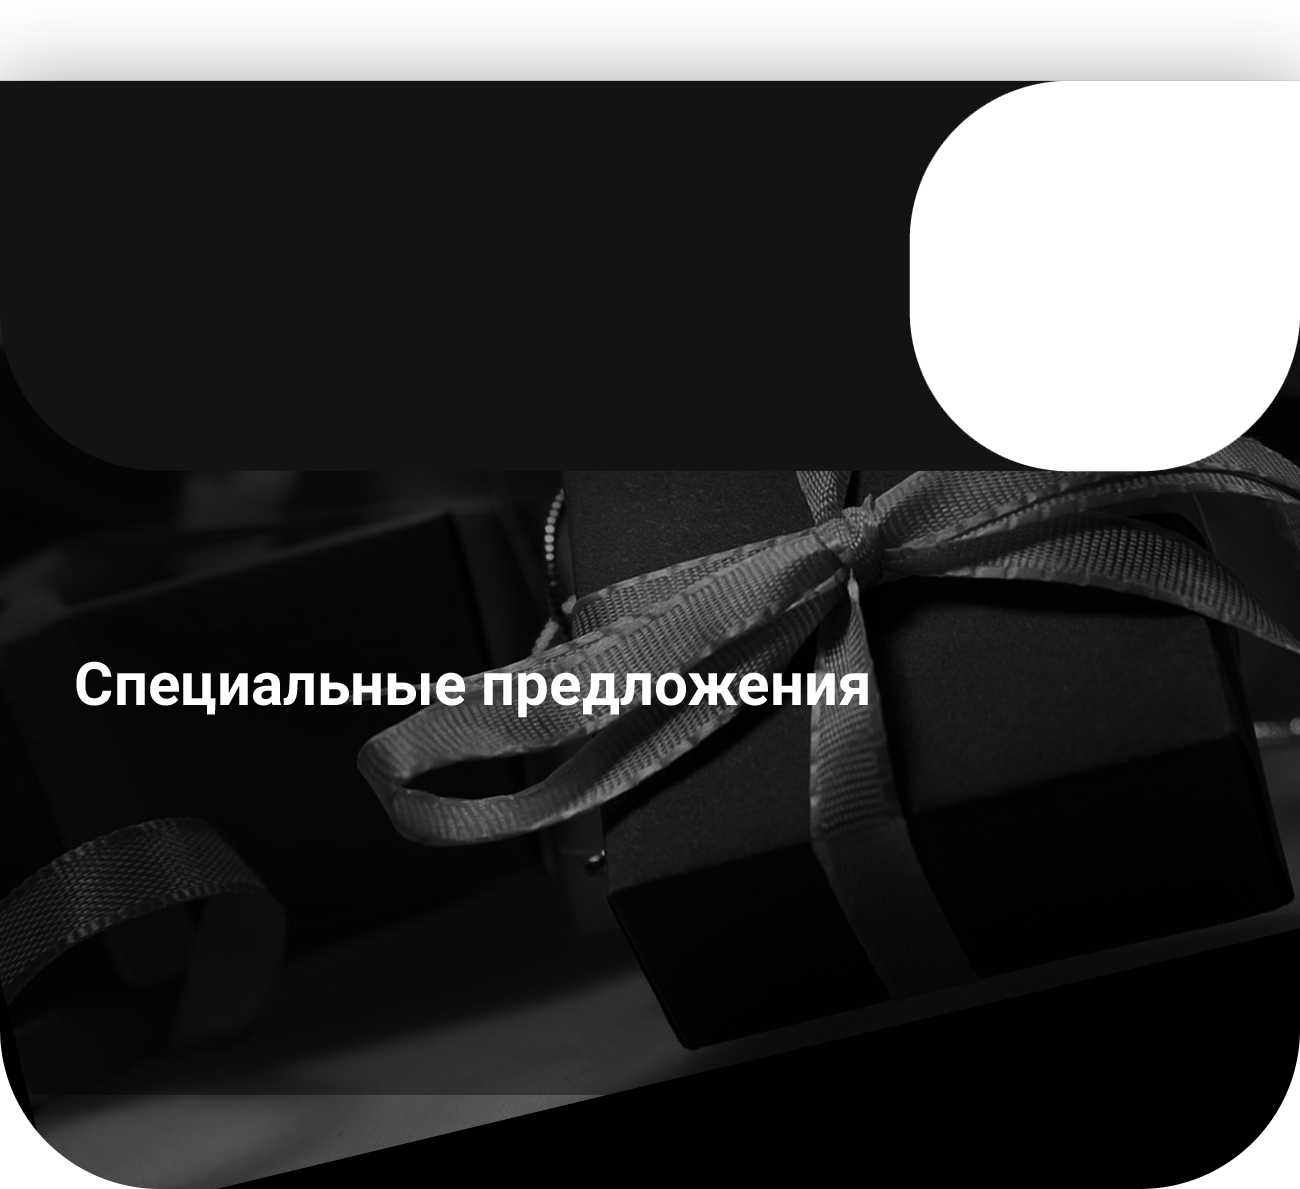
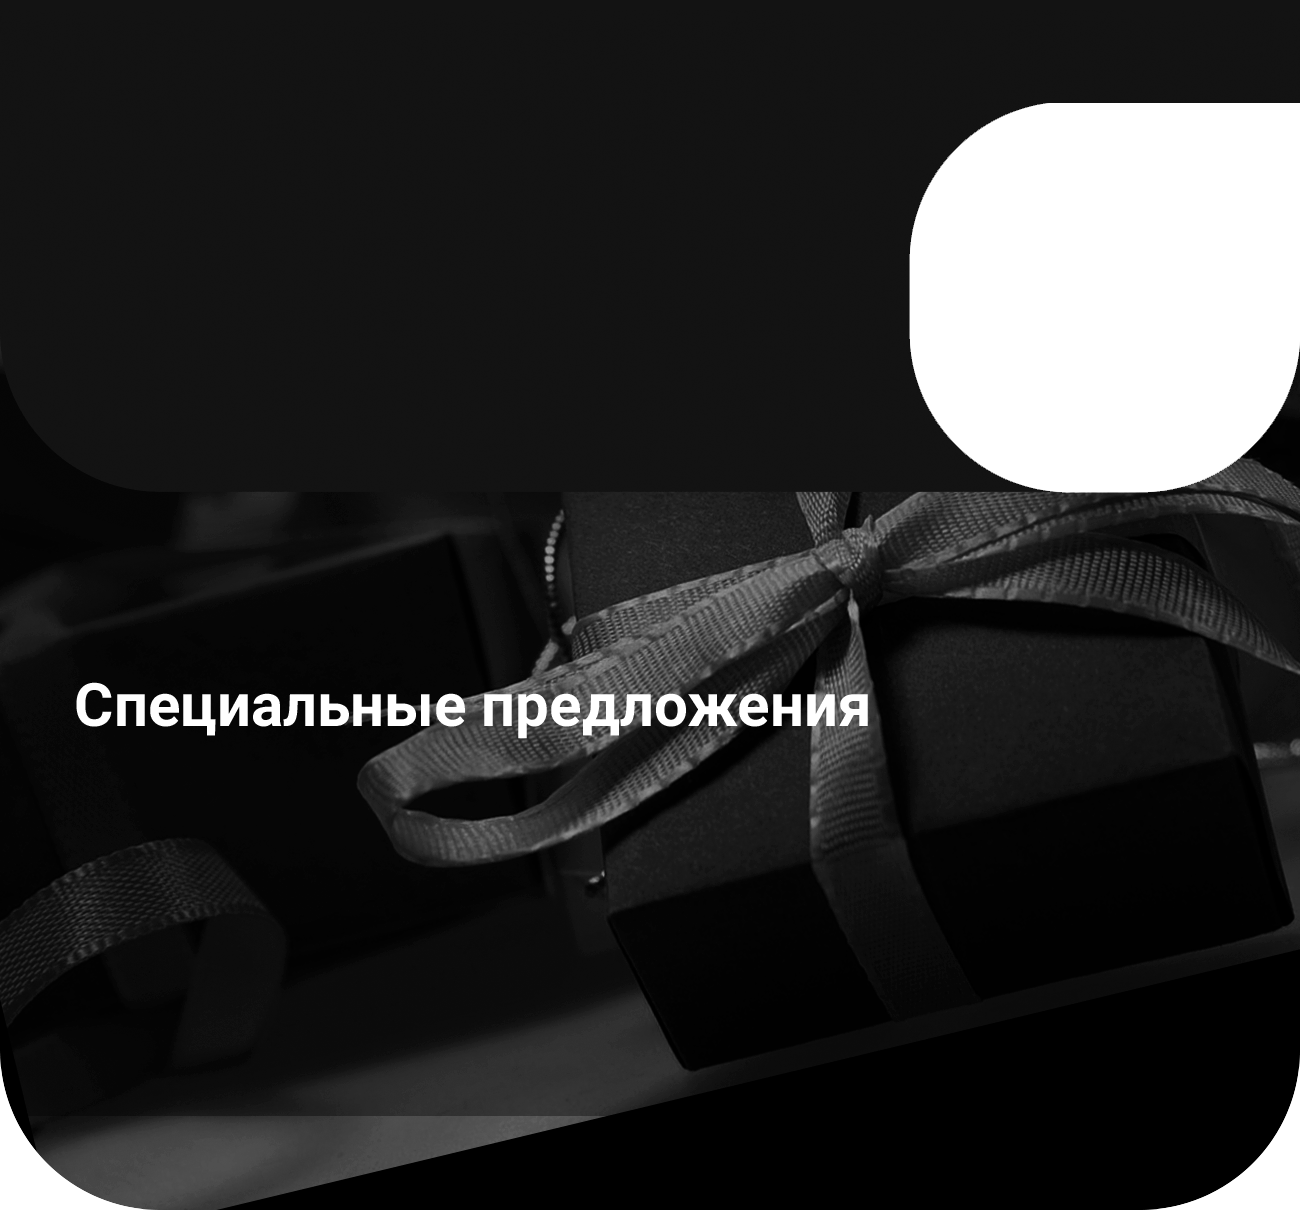
Изменения цвета StatusBar для iOS, добавлены иконки приборов при передачи показаний, перерисовка шапок на формах

diff --git a/xamarinJKH/Counters/AddMetersPage.xaml b/xamarinJKH/Counters/AddMetersPage.xaml
@@ -118,6 +118,8 @@
                                  HorizontalOptions="CenterAndExpand">
                         <StackLayout Orientation="Horizontal"
                                      HorizontalOptions="CenterAndExpand">
+                            <Image x:Name="img"
+                                WidthRequest="25"/>
                             <Label x:Name="NameLbl"
                                 Text="Лицевой счет: "
                                 HeightRequest="20"

diff --git a/xamarinJKH/News/NewsPage.xaml b/xamarinJKH/News/NewsPage.xaml
@@ -8,7 +8,7 @@
     <ContentPage.Content>
          <StackLayout>
             <RelativeLayout 
-                Margin="0,0,0,-180"
+                Margin="0,0,0,-150"
                 HorizontalOptions="FillAndExpand">
                 <!-- <Image x:Name="ImageTop" -->
                 <!--        Source="ic_top_event" -->

diff --git a/xamarinJKH/Notifications/NotificationsPage.xaml b/xamarinJKH/Notifications/NotificationsPage.xaml
@@ -9,7 +9,7 @@
     <ContentPage.Content>
         <StackLayout>
             <RelativeLayout 
-                Margin="0,0,0,-180"
+                Margin="0,0,0,-150"
                 HorizontalOptions="FillAndExpand">
                 <!-- <Image x:Name="ImageTop" -->
                 <!--        Source="ic_top_event" -->

diff --git a/xamarinJKH/Counters/AddMetersPage.xaml.cs b/xamarinJKH/Counters/AddMetersPage.xaml.cs
@@ -31,7 +31,8 @@ namespace xamarinJKH.Counters
             switch (Device.RuntimePlatform)
             {
                 case Device.iOS:
-                    ImageFon.Margin = new Thickness(0, 7, 0, 0);
+                    BackgroundColor = Color.White;
+                    ImageFon.Margin = new Thickness(0, 0, 0, 0);
                     StackLayout.Margin = new Thickness(0, 33, 0, 0);
                     IconViewNameUk.Margin = new Thickness(0, 33, 0, 0);
                     break;
@@ -58,6 +59,17 @@ namespace xamarinJKH.Counters
         
         void SetTextAndColor()
         {
+            if (meter.Resource.ToLower().Contains("холодное"))
+            {
+                img.Source = ImageSource.FromFile("ic_cold_water");
+            }else if (meter.Resource.ToLower().Contains("горячее"))
+            {
+                img.Source = ImageSource.FromFile("ic_heat_water");
+            }
+            else
+            {
+                img.Source = ImageSource.FromFile("ic_electr");
+            }
             UkName.Text = Settings.MobileSettings.main_name;
             LabelPhone.Text = "+" + Settings.Person.Phone;
             NameLbl.Text = meter.Resource;

diff --git a/xamarinJKH.Android/Resources/Resource.designer.cs b/xamarinJKH.Android/Resources/Resource.designer.cs
@@ -1,11 +1,11 @@
 #pragma warning disable 1591
 //------------------------------------------------------------------------------
 // <auto-generated>
-//     Этот код создан программой.
-//     Исполняемая версия:4.0.30319.42000
+//     This code was generated by a tool.
+//     Runtime Version:4.0.30319.42000
 //
-//     Изменения в этом файле могут привести к неправильной работе и будут потеряны в случае
-//     повторной генерации кода.
+//     Changes to this file may cause incorrect behavior and will be lost if
+//     the code is regenerated.
 // </auto-generated>
 //------------------------------------------------------------------------------
 

diff --git a/xamarinJKH/RegistrForm.xaml.cs b/xamarinJKH/RegistrForm.xaml.cs
@@ -37,7 +37,16 @@ namespace xamarinJKH
             var backClick = new TapGestureRecognizer();
             backClick.Tapped += async (s, e) => { _ = await Navigation.PopModalAsync(); };
             BackStackLayout.GestureRecognizers.Add(backClick);
-
+            switch (Device.RuntimePlatform)
+            {
+                case Device.iOS:
+                    BackgroundColor = Color.White;
+                    BackStackLayout.Margin = new Thickness(10, -150, 0, 0);
+                    break;
+                case Device.Android:
+                default:
+                    break;
+            }
             var nextReg = new TapGestureRecognizer();
             nextReg.Tapped += async (s, e) => { FirstStepReg(); };
             FrameBtnLogin.GestureRecognizers.Add(nextReg);

diff --git a/xamarinJKH/Apps/AppPage.xaml.cs b/xamarinJKH/Apps/AppPage.xaml.cs
@@ -96,8 +96,8 @@ namespace xamarinJKH.Apps
             switch (Device.RuntimePlatform)
             {
                 case Device.iOS:
-                    ImageTop.Margin = new Thickness(0, 33, 0, 0);
-                    StackLayout.Margin = new Thickness(0, 33, 0, 0);
+                    // ImageTop.Margin = new Thickness(0, 33, 0, 0);
+                    // StackLayout.Margin = new Thickness(0, 33, 0, 0);
                     // IconViewNameUk.Margin = new Thickness(0, 33, 0, 0);
                     break;
                 case Device.Android:

diff --git a/xamarinJKH/News/NewPage.xaml.cs b/xamarinJKH/News/NewPage.xaml.cs
@@ -29,7 +29,9 @@ namespace xamarinJKH.News
             switch (Device.RuntimePlatform)
             {
                 case Device.iOS:
-                    ImageTop.Margin = new Thickness(0, 7, 0, 0);
+                    BackgroundColor = Color.White;
+                    BackgroundColor = Color.White;
+                    ImageTop.Margin = new Thickness(0, 0, 0, 0);
                     StackLayout.Margin = new Thickness(0, 33, 0, 0);
                     IconViewNameUk.Margin = new Thickness(0, 33, 0, 0);
                     break;

diff --git a/xamarinJKH/News/NewsPage.xaml.cs b/xamarinJKH/News/NewsPage.xaml.cs
@@ -64,7 +64,9 @@ namespace xamarinJKH.News
             switch (Device.RuntimePlatform)
             {
                 case Device.iOS:
-                    ImageTop.Margin = new Thickness(0, 7, 0, 0);
+                    BackgroundColor = Color.White;
+                    BackgroundColor = Color.White;
+                    ImageTop.Margin = new Thickness(0, 0, 0, 0);
                     StackLayout.Margin = new Thickness(0, 33, 0, 0);
                     IconViewNameUk.Margin = new Thickness(0, 33, 0, 0);
                     break;

diff --git a/xamarinJKH/Notifications/NotificationOnePage.xaml.cs b/xamarinJKH/Notifications/NotificationOnePage.xaml.cs
@@ -30,7 +30,8 @@ namespace xamarinJKH.Notifications
             switch (Device.RuntimePlatform)
             {
                 case Device.iOS:
-                    ImageTop.Margin = new Thickness(0, 7, 0, 0);
+                    BackgroundColor = Color.White;
+                    ImageTop.Margin = new Thickness(0, 0, 0, 0);
                     StackLayout.Margin = new Thickness(0, 33, 0, 0);
                     IconViewNameUk.Margin = new Thickness(0, 33, 0, 0);
                     break;

diff --git a/xamarinJKH/Additional/AdditionalOnePage.xaml.cs b/xamarinJKH/Additional/AdditionalOnePage.xaml.cs
@@ -26,7 +26,8 @@ namespace xamarinJKH.Additional
             switch (Device.RuntimePlatform)
             {
                 case Device.iOS:
-                    ImageTop.Margin = new Thickness(0, 7, 0, 0);
+                    BackgroundColor = Color.White;
+                    ImageTop.Margin = new Thickness(0, 0, 0, 0);
                     StackLayout.Margin = new Thickness(0, 33, 0, 0);
                     IconViewNameUk.Margin = new Thickness(0, 33, 0, 0);
                     break;

diff --git a/xamarinJKH/Additional/AdditionalPage.xaml.cs b/xamarinJKH/Additional/AdditionalPage.xaml.cs
@@ -66,7 +66,8 @@ namespace xamarinJKH.Additional
             switch (Device.RuntimePlatform)
             {
                 case Device.iOS:
-                    ImageTop.Margin = new Thickness(0, 7, 0, 0);
+                    BackgroundColor = Color.White;
+                    ImageTop.Margin = new Thickness(0, 0, 0, 0);
                     StackLayout.Margin = new Thickness(0, 33, 0, 0);
                     IconViewNameUk.Margin = new Thickness(0, 33, 0, 0);
                     break;
